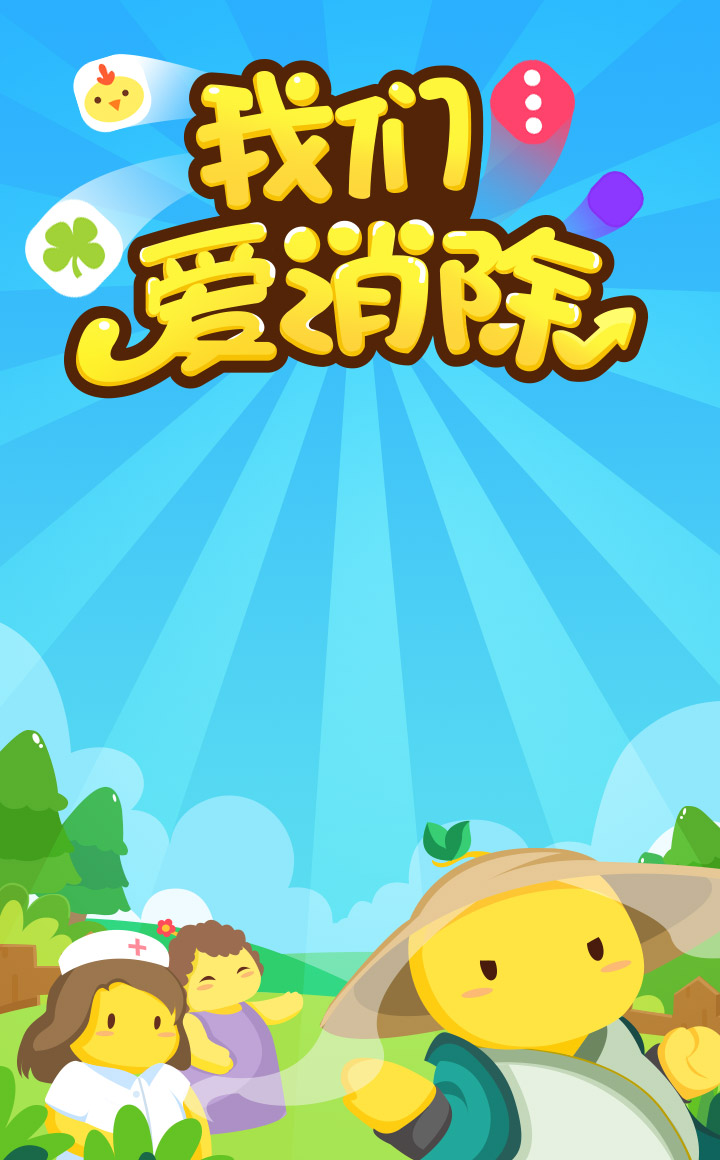
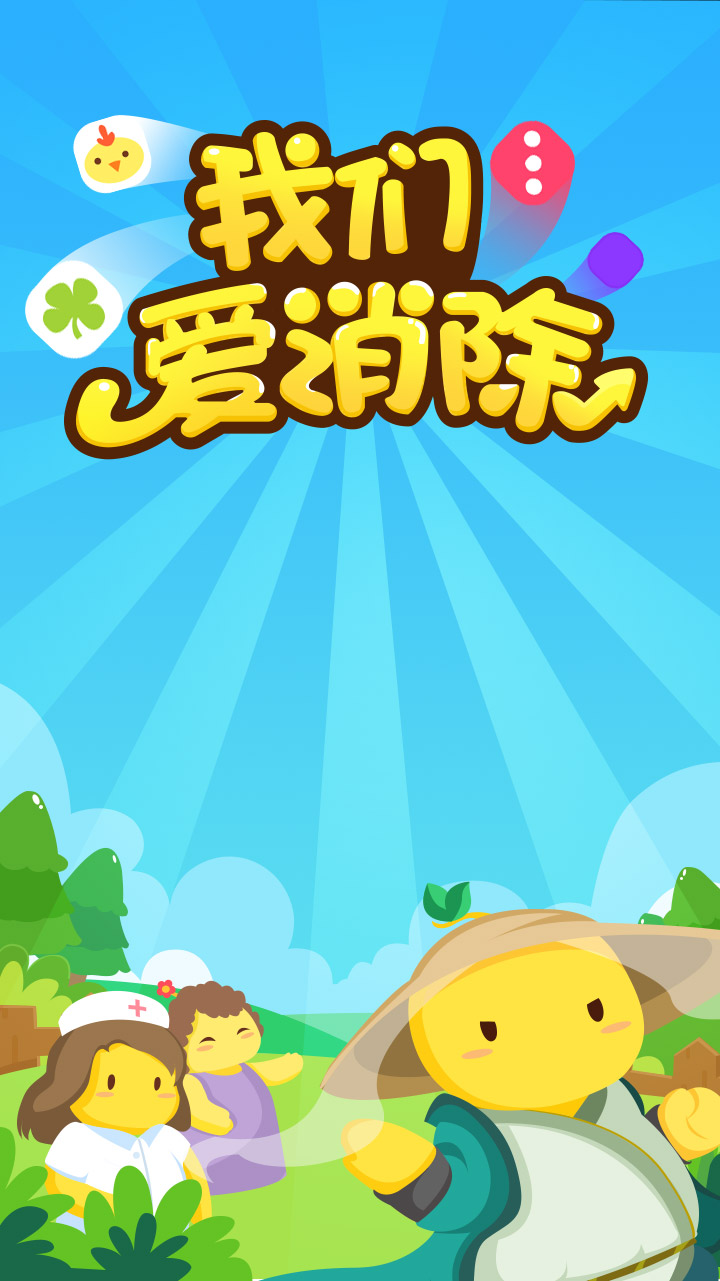
no message

diff --git a/apps/eten/popong/react/components/prepare.jsx b/apps/eten/popong/react/components/prepare.jsx
@@ -1,4 +1,3 @@
-
 const Prepare = React.createClass({
     getInitialState: function () {
         return {records: []}
@@ -18,12 +17,12 @@ const Prepare = React.createClass({
             var records = [], i, m;
             for (i = 0; i < (data.data || []).length; i++) {
                 m = data.data[i];
-                var avatar = 'images/prepare/avatar-' + (m.sex == 0 ? 'fe' : '') + 'male.png';
-
+                let avatar = 'images/prepare/avatar-' + (m.sex == 0 ? 'fe' : '') + 'male.png';
+                // let time = ''
                 records.push({
                     avatar: avatar,
                     name: m.username,
-                    score: m.score
+                    time: m.time
                 })
             }
             this.setState({records: records});
@@ -37,7 +36,7 @@ const Prepare = React.createClass({
                     <div className="num">{index + 1}</div>
                     <img className="avatar" src={item.avatar}/>
                     <div className="name">{item.name}</div>
-                    <div className="score">{item.score}</div>
+                    <div className="score">{item.time}</div>
                 </div>
             )
         };

diff --git a/apps/eten/popong/less/index.less b/apps/eten/popong/less/index.less
@@ -44,7 +44,7 @@ body, html {
     width: 265px;
     height: 265px;
     display: block;
-    margin: 400px auto 50px;
+    margin: 450px auto 50px;
     background: transparent url(../images/start-page-btn-start.png) no-repeat;
     background-size: 100%;
   }
@@ -75,10 +75,11 @@ body, html {
     border-radius: 20px;
     background: white;
     min-height: 600px;
+    padding-top: 40px;
 
     img {
       max-width: 90%;
-      position: relative;
+      position: absolute;
       top: -60px;
       left: 80px;
     }
@@ -250,12 +251,14 @@ body, html {
 
     .dou-ge {
       display: block;
-      margin: 20px auto;
+      margin: 20px auto 0;
     }
 
     .start {
       display: block;
-      margin: 20px auto;
+      margin: 0 auto 20px;
+      position: relative;
+      top: -5px;
     }
   }
 
@@ -439,7 +442,8 @@ body, html {
   top: 0;
   bottom: 0;
   width: 100%;
-  background: #81dcf4;
+  //background: #81dcf4;
+  background: rgba(129, 220, 244, 0.5);
 
   .dialog {
     background-repeat: no-repeat;

diff --git a/apps/eten/popong/javascripts/Game.js b/apps/eten/popong/javascripts/Game.js
@@ -179,7 +179,7 @@
                 var x = e.stageX, y = e.stageY - this.gameContainerMarginTop;
                 var column = Math.floor(x / cellWidth), row = Math.floor(y / cellHeight);
                 this.biuAction(row, column);
-                setTimeout(this.checkLevelComplete.bind(this), 500);
+                setTimeout(this.checkLevelComplete.bind(this), 800);
             } else if (e.eventTarget == this.tools.refresh) {
                 this.pauseGameProgress();
                 window.ContentPanel.useProps('4', // refresh 刷新道具
@@ -493,7 +493,7 @@
 
                 this.addTile(null, r.x, r.y, 'animate');
                 // 添加方块后立即检查 游戏是否结束
-                setTimeout(this.checkLevelComplete.bind(this), 500);
+                setTimeout(this.checkLevelComplete.bind(this), 800);
 
                 this.gameMoving();
             }.bind(this), delay);

diff --git a/apps/eten/popong/react/index.jsx b/apps/eten/popong/react/index.jsx
@@ -37,7 +37,7 @@ const Content = React.createClass({
             }
             for (var i = 0; i < data.data.length; i++) {
                 var m = data.data[i];
-                level_list[parseInt(m.pass_num) - 1].gift = true;
+                if (m.gift_id && m.gift_id != 0) level_list[parseInt(m.pass_num) - 1].gift = true;
             }
             this.setState({level_list: level_list});
         }.bind(this), 'json')
@@ -152,7 +152,6 @@ const Content = React.createClass({
         return <div className="content" style={style}> {cnt} </div>
     }
 });
-
 
 function calculateStar(level, seconds, cb) {
     $.get(API_PATH + '/9888/game/web/index.php', {

diff --git a/apps/eten/popong/react/components/level-complete.jsx b/apps/eten/popong/react/components/level-complete.jsx
@@ -6,7 +6,7 @@ const LevelComplete = React.createClass({
     componentDidMount: function () {
         if (this.props.success) {
             calculateStar(this.props.level, this.props.seconds, function (data) {
-                this.setState({star: data.score})
+                this.setState({star: data.star})
             }.bind(this));
         } else {
             this.setState({star: 0})

diff --git a/apps/eten/popong/index.html b/apps/eten/popong/index.html
@@ -18,7 +18,7 @@
 
 <body>
 
-<input id="api-path" type="hidden" value="http://10.105.7.208"/>
+<input id="api-path" type="hidden" value="http://10.105.7.208/"/>
 <div id="cnt"></div>
 <div id="game"></div>
 </body>
